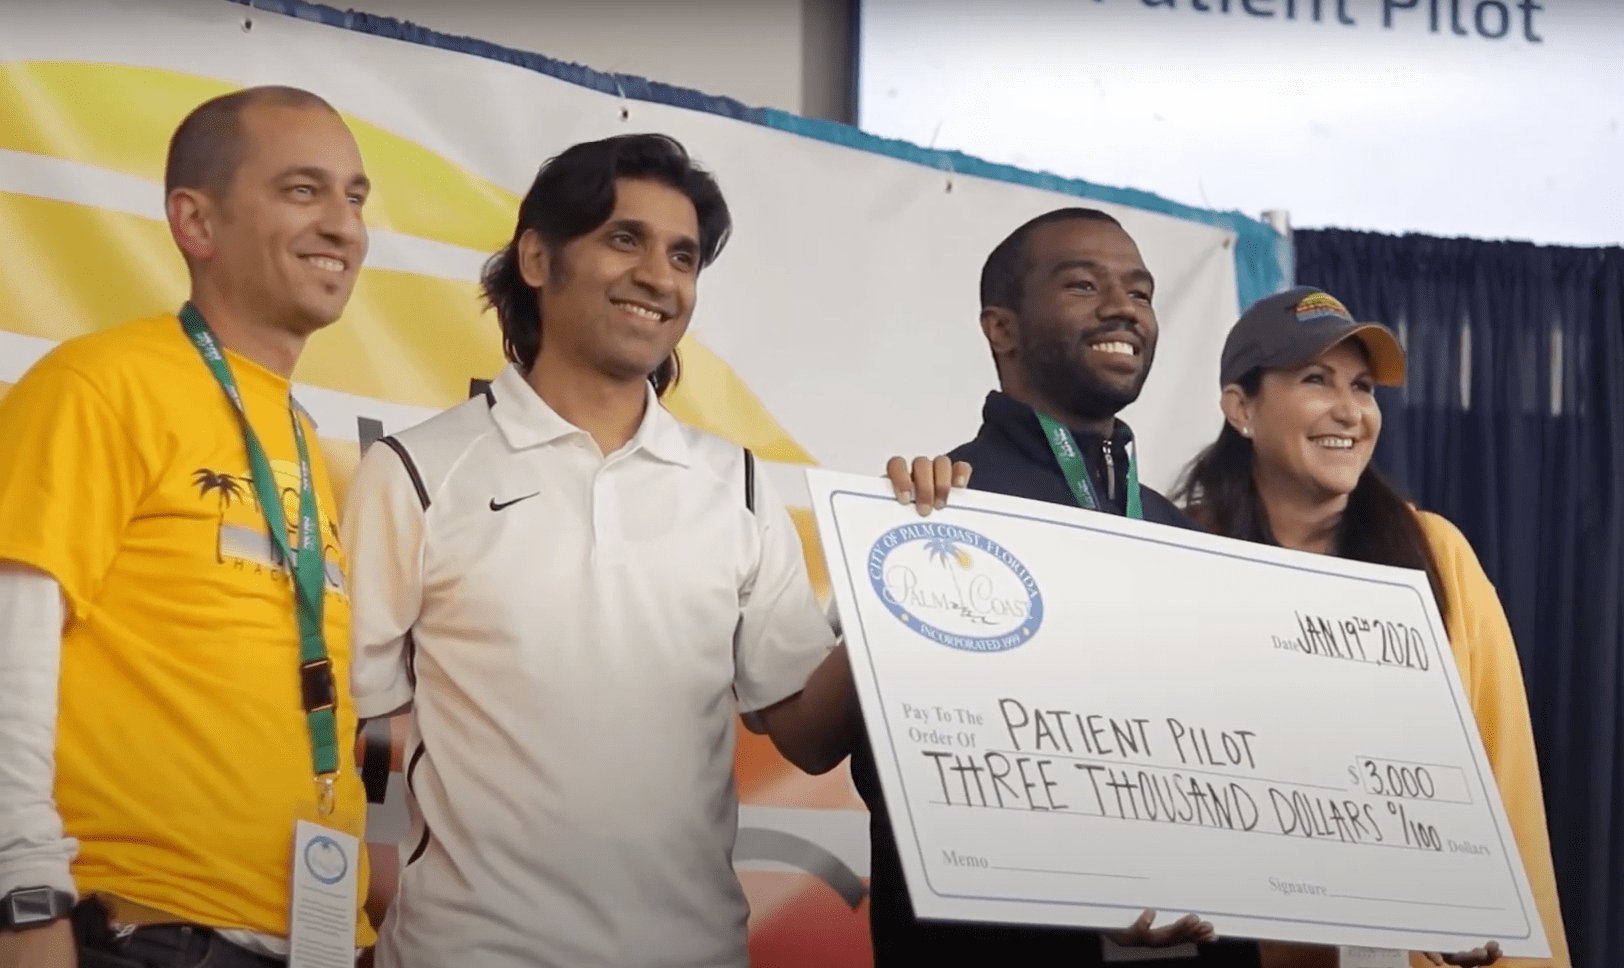
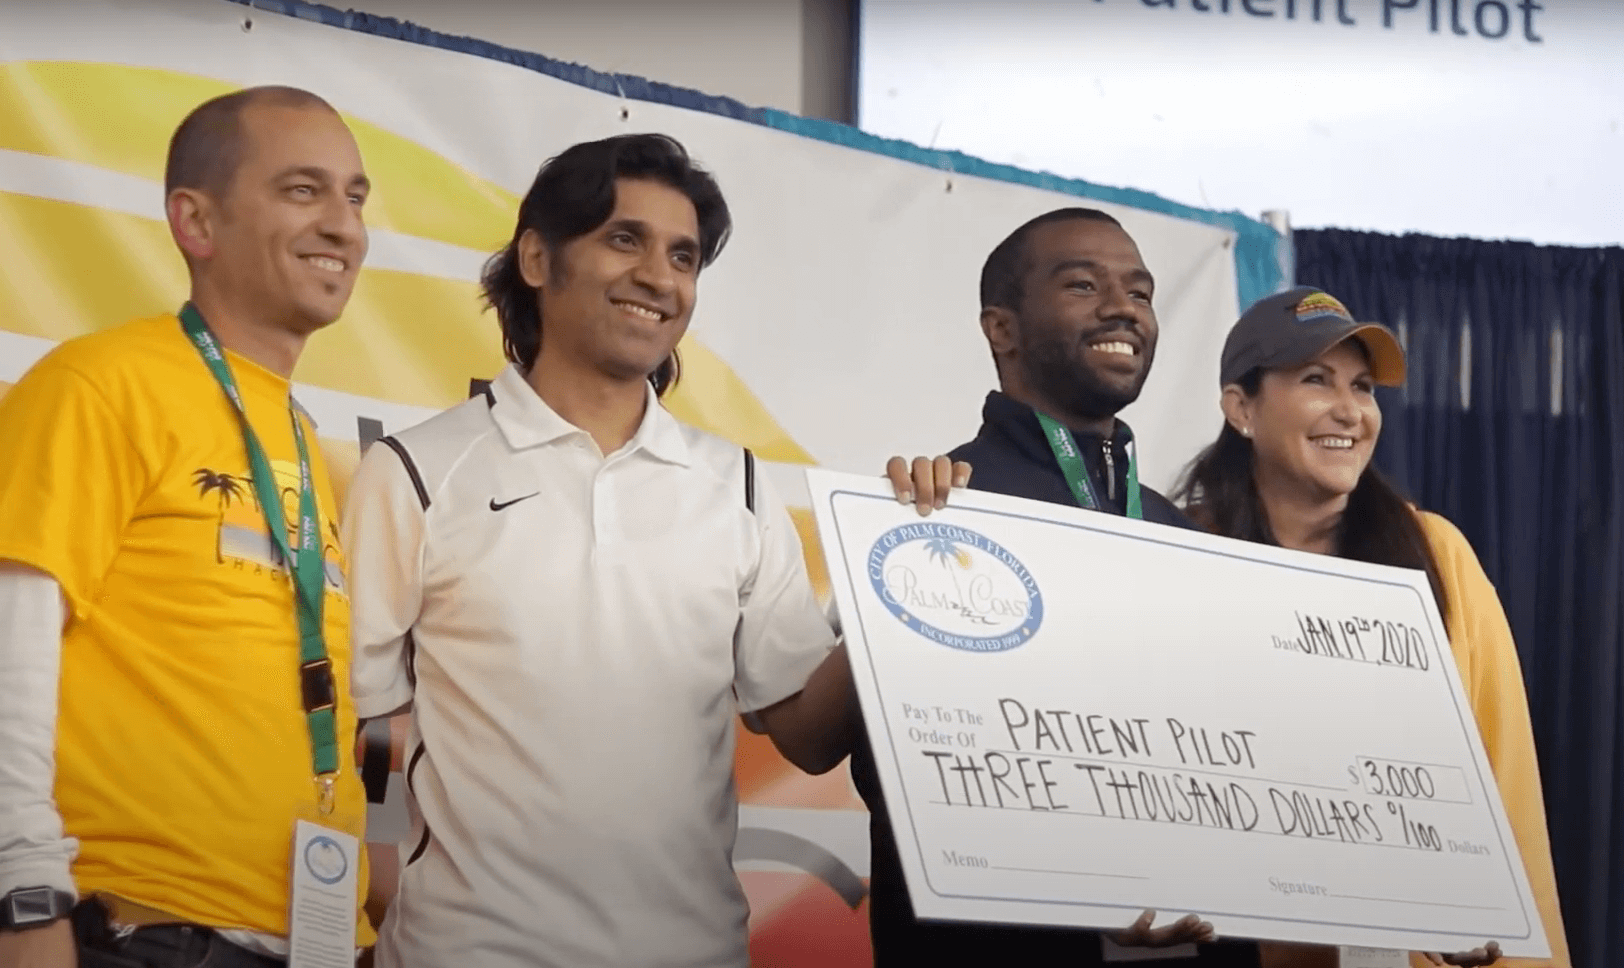
Compress images

diff --git a/src/App.svelte b/src/App.svelte
@@ -477,7 +477,7 @@
           <div class="col-12 col-md-4 order-md-2 text-center">
 
             <!-- Image -->
-            <img class="img-fluid w-75 w-md-100 mb-6 mb-md-0" src="img/patient_pilot_award.jpeg" alt="...">
+            <img class="img-fluid w-75 w-md-100 mb-6 mb-md-0" src="img/patient_pilot_award.png" alt="Patient Pilot">
 
           </div>
           <div class="col-12 col-md-7 order-md-1">
